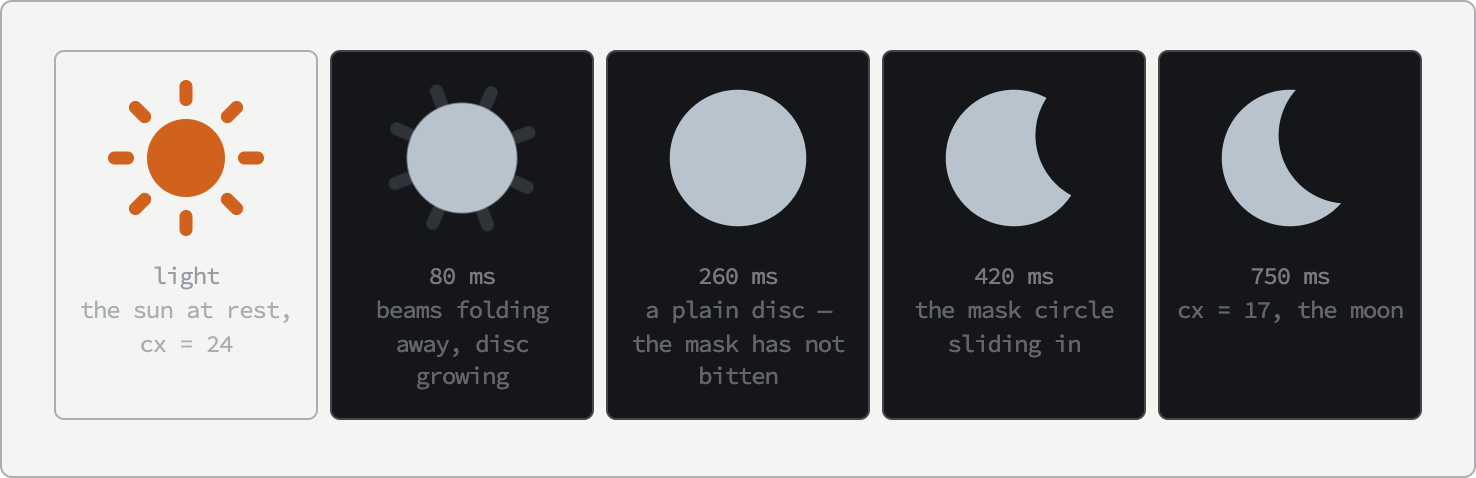
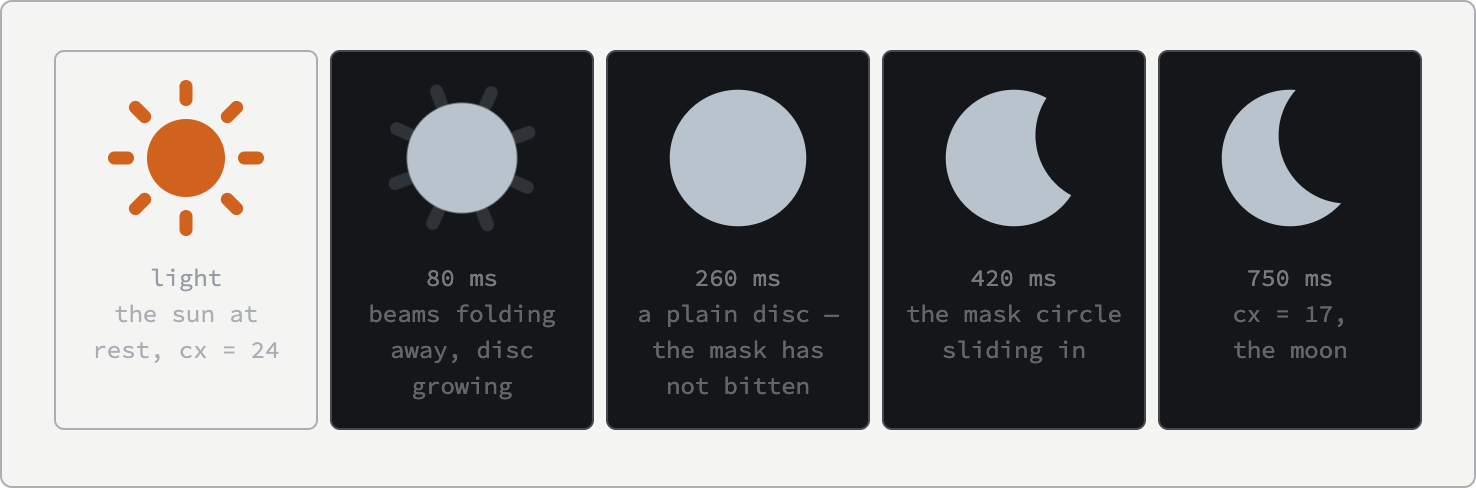
Wiki theme toggle: the morph strip gets a dark twin, the sun colors stay light
data-light-only on a [data-shot] leaves it out of the dark pass.

diff --git a/src/wiki/_sources/theme-toggle.html b/src/wiki/_sources/theme-toggle.html
@@ -1,5 +1,5 @@
 <!doctype html>
-<html lang="en" data-theme="light">
+<html lang="en" data-theme="light" data-dark-shot>
 <head>
 <meta charset="utf-8">
 <title>The theme toggle — wiki mockup</title>
@@ -55,7 +55,7 @@
   <div class="strip" id="strip"></div>
 </div>
 
-<div class="specimen" data-shot="theme-toggle-sun-colors">
+<div class="specimen" data-shot="theme-toggle-sun-colors" data-light-only>
   <div class="swatches" id="swatches"></div>
 </div>
 
@@ -81,6 +81,8 @@
 
   // ⚠ Read BEFORE the strip exists — flipping the root theme here would otherwise start every glyph's transitions early.
   // The glyph color and the page ground carry no transition at all: they snap when data-theme flips, and only the shape animates. Both palettes come off the real stylesheet via a throwaway .theme-toggle rather than copied-in hexes.
+  // ⚠ The root stays light for the whole build — frame 0 is a light sun under it — so the dark pass only repaints the morph's paper, below.
+  const pass = document.documentElement.dataset.theme;
   const probe = Object.assign(document.createElement('span'), { className: 'theme-toggle' });
   document.body.append(probe);
   const palette = theme => {
@@ -103,6 +105,7 @@
   ];
 
   const strip = document.getElementById('strip');
+  if (pass === 'dark') Object.assign(strip.parentElement.style, { background: dark.bg, borderColor: dark.edge });
   frames.forEach(([t, stamp, note], i) => {
     const cell = document.createElement('div');
     cell.className = 'cell';

diff --git a/src/wiki/_sources/shoot-mockups.js b/src/wiki/_sources/shoot-mockups.js
@@ -22,7 +22,7 @@ await page.setViewport({ width: 1400, height: 1400, deviceScaleFactor: 2 });
 
 const sizes = [];
 
-// A mockup opts into a second, dark shot of each [data-shot] with data-dark-shot on <html>; it is saved as <data-shot>-dark.png.
+// A mockup opts into a second, dark shot of each [data-shot] with data-dark-shot on <html>; it is saved as <data-shot>-dark.png. data-light-only on a shot opts that one back out.
 const passes = mockups.flatMap(file => {
   const dark = readFileSync(path.join(here, file), 'utf8').includes('data-dark-shot');
   return dark ? [{ file, theme: 'light' }, { file, theme: 'dark' }] : [{ file, theme: 'light' }];
@@ -40,7 +40,9 @@ for (const { file, theme } of passes) {
     document.querySelectorAll('[data-shot]').forEach(el => (el.style.boxShadow = 'none'));
   });
 
-  const shots = await page.$$eval('[data-shot]', els =>
+  // A [data-shot] with data-light-only is left out of the dark pass: its subject is the light theme itself.
+  const selector = theme === 'dark' ? '[data-shot]:not([data-light-only])' : '[data-shot]';
+  const shots = await page.$$eval(selector, els =>
     els.map(el => {
       const { x, y, width, height } = el.getBoundingClientRect();
       return { name: el.dataset.shot, clip: { x, y, width, height } };

diff --git a/src/wiki/The theme toggle.md b/src/wiki/The theme toggle.md
@@ -33,7 +33,7 @@ The moon is the sun's disc with a circle masked out of it:
 In light mode the mask circle sits at `cx="24"`, outside the disc, so the mask does nothing. Going dark it slides left and bites the crescent while the disc grows and the eight ray lines fade out.
 
 <figure class="popout" data-wiki-mockup>
-  <img eleventy:formats="webp,png" src="/assets/images/wiki/theme-toggle-morph.png" alt="Five tiles in a row. The first is a light tile holding an orange sun with eight rays, labeled &quot;light&quot;. The remaining four are dark tiles holding a pale blue-gray glyph, labeled with a time in milliseconds. At 80ms the rays have faded to dim stubs and the disc is larger. At 260ms a plain circle with no rays and no bite taken out of it. At 420ms a circle with a rounded notch cut into its upper right. At 750ms a crescent moon." width="1476" height="478">
+  <img eleventy:formats="webp,png" src="/assets/images/wiki/theme-toggle-morph.png" alt="Five tiles in a row. The first is a light tile holding an orange sun with eight rays, labeled &quot;light&quot;. The remaining four are dark tiles holding a pale blue-gray glyph, labeled with a time in milliseconds. At 80ms the rays have faded to dim stubs and the disc is larger. At 260ms a plain circle with no rays and no bite taken out of it. At 420ms a circle with a rounded notch cut into its upper right. At 750ms a crescent moon." width="1476" height="488">
   <figcaption>The morph, frozen at five instants. The middle frame is the whole point: for a moment the moon is a plain disc, because a moon is all it ever is — a disc with a circle masked out of it. The color and the page behind it carry no transition, so they have already changed by the second tile while the shape is still most of the way a sun.</figcaption>
 </figure>
 
@@ -110,7 +110,7 @@ Table: Contrast of the lighter oranges on each theme's background
 | **orange-500 `#d0621e`** | **3.50** | **4.70** |
 
 <figure class="popout" data-wiki-mockup>
-  <img eleventy:formats="webp,png" src="/assets/images/wiki/theme-toggle-sun-colors.png" alt="The same sun glyph four times on the site's light page color, in progressively deeper oranges, each labeled with its contrast ratio. The first at 1.16 to 1 is a pale cream barely separable from the background; the second at 1.54 and the third at 2.12 are legible but faint; only the fourth, at 3.50 to 1, reads as a solid mark." width="1372" height="386">
+  <img eleventy:formats="webp,png" src="/assets/images/wiki/theme-toggle-sun-colors.png" alt="The same sun glyph four times on the site's light page color, in progressively deeper oranges, each labeled with its contrast ratio. The first at 1.16 to 1 is a pale cream barely separable from the background; the second at 1.54 and the third at 2.12 are legible but faint; only the fourth, at 3.50 to 1, reads as a solid mark." width="1372" height="394">
   <figcaption>The same table, drawn. The sun is only ever shown on this background, and only the last of the four is a graphic a person could use to operate a control.</figcaption>
 </figure>
 
